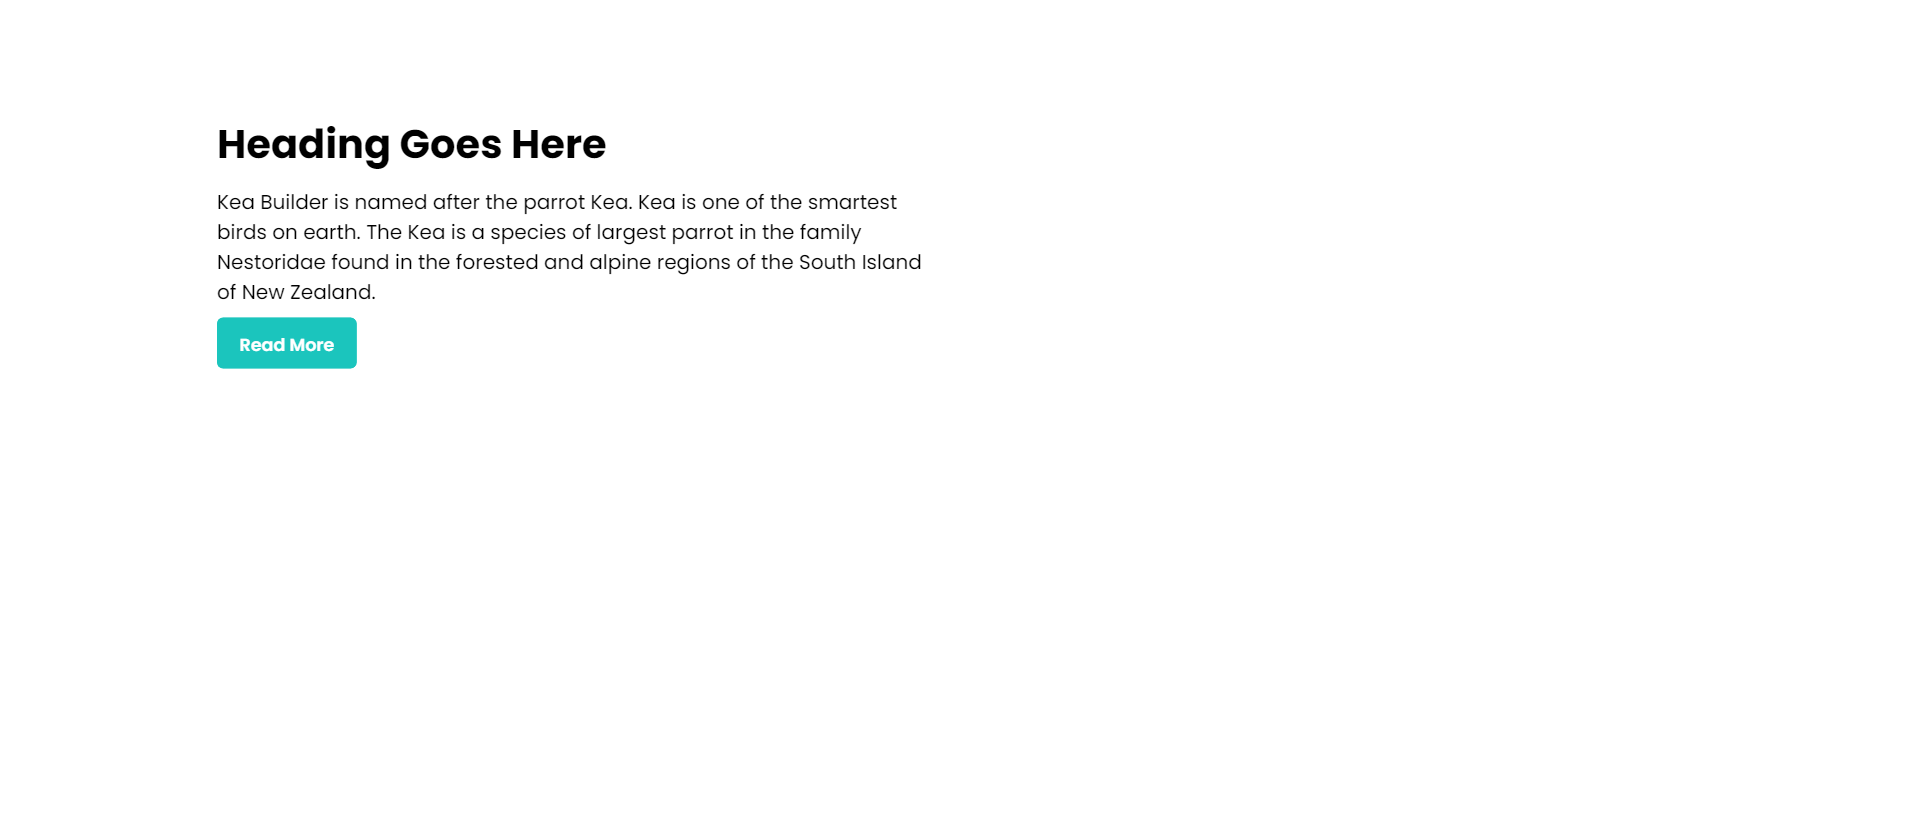
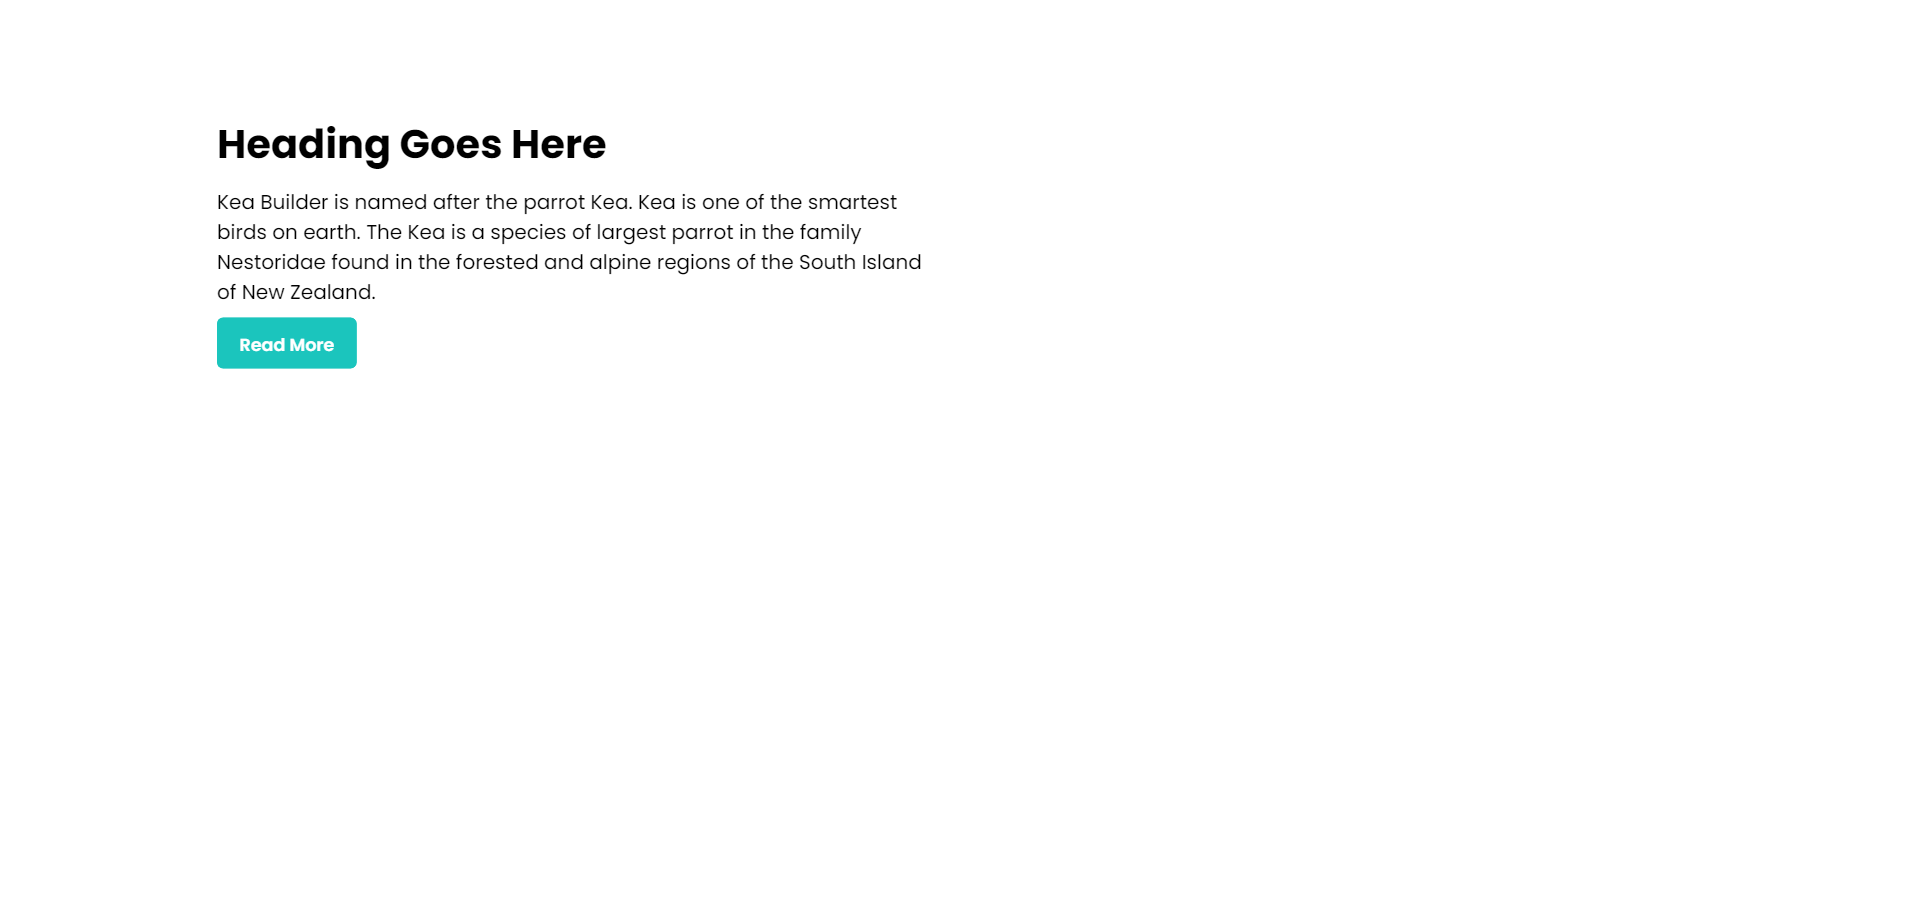
up

Changed region(s): [[0.0938, 0.123, 0.4688, 0.4613]]

diff --git a/src/assets/sites/pages/thumbnail/style.css b/src/assets/sites/pages/thumbnail/style.css
@@ -1,0 +1,1 @@
+#kb-main{margin:0px auto 0px auto;padding:0px 0px;border-width:0px;border-radius:0px;border-color:rgba(0,0,0,1);border-style:solid;background-color:rgba(0,0,0,0);width:100%;height:100%;z-index:auto;}#kb-section-1178113772{margin:0px auto 0px auto;padding:60px 0px 60px 0px;border-width:0px;border-radius:0px;border-color:rgba(0,0,0,1);border-style:solid;background-color:rgba(0,0,0,0);width:100%;height:auto;z-index:auto;}#kb-row-3840436701{margin:0px auto 0px auto;padding:30px 0px 30px 0px;border-width:0px;border-radius:0px;border-color:rgba(0,0,0,1);border-style:solid;background-color:rgba(0,0,0,0);width:80%;height:auto;z-index:auto;}#kb-row-3840436701 .kb-column-wrap{gap:0rem;}#kb-column-9862608998{margin:0px auto 0px auto;padding:0px 20px 0px 20px;border-width:0px;border-radius:0px;border-color:rgba(0,0,0,1);border-style:solid;background-color:rgba(0,0,0,0);width:100%;height:auto;z-index:auto;}#kb-element-2736485562 .kb-element-content div>div{font-size:32px;font-weight:700;font-style:normal;font-family:poppins;color:rgba(0,0,0,1);text-align:left;text-transform:none;text-decoration-line:none;text-decoration-style:solid;text-decoration-color:rgba(0,0,0,1);line-height:normal;letter-spacing:normal;margin:0px auto 10px 0px;padding:0px 0px 0px 0px;border-width:0px;border-radius:0px;border-color:rgba(0,0,0,1);border-style:solid;background-color:rgba(0,0,0,0);width:auto;height:auto;z-index:auto;}#kb-element-3595315778 .kb-element-content div>div{font-size:16px;font-weight:400;font-style:normal;font-family:poppins;color:rgba(0,0,0,1);text-align:left;text-transform:none;text-decoration-line:none;text-decoration-style:solid;text-decoration-color:rgba(0,0,0,1);line-height:normal;letter-spacing:normal;margin:0px auto 10px 0px;padding:0px 0px 0px 0px;border-width:0px;border-radius:0px;border-color:rgba(0,0,0,1);border-style:solid;background-color:rgba(0,0,0,0);width:auto;height:auto;z-index:auto;}#kb-element-3980715870 .kb-element-content a{font-size:14px;font-weight:600;font-style:normal;font-family:poppins;color:rgba(255, 255, 255, 1);text-align:center;text-transform:none;text-decoration-line:none;text-decoration-style:solid;text-decoration-color:rgba(255, 255, 255, 1);line-height:normal;letter-spacing:normal;margin:0px auto 10px 0px;padding:8px 16px 8px 16px;border-width:2px;border-radius:5px;border-color:#1BC5BD;border-style:solid;background-color:#1BC5BD;width:auto;height:auto;z-index:auto;}#kb-column-3264864318{margin:0px auto 0px auto;padding:0px 20px 0px 20px;border-width:0px;border-radius:0px;border-color:rgba(0,0,0,1);border-style:solid;background-color:rgba(0,0,0,0);width:100%;height:auto;z-index:auto;}@media only screen and (max-width:1024px) and (min-width:769px){}@media only screen and (max-width:768px) and (min-width:426px){#kb-section-1178113772{padding:30px 0px;}}@media only screen and (max-width:426px){#kb-section-1178113772{padding:30px 0px;}}

diff --git a/src/assets/sites/pages/my-first-optin-agai63942c71f/index.html b/src/assets/sites/pages/my-first-optin-agai63942c71f/index.html
@@ -1,1 +1,1 @@
-<html></html>
+<html><head><link rel="icon" type="image/x-icon" href="http://localhost:4200/assets/uploads/images/"><meta charset="UTF-8"><meta name="description" content=""><meta name="keywords" content=""><meta name="author" content=""><meta name="viewport" content="width=device-width, initial-scale=1.0"><title>hjhjh</title><link rel="stylesheet" href="http://localhost:4200/assets/style/builder.css"><link rel="stylesheet" href="http://localhost:4200/assets/sites/pages/my-first-optin-agai63942c71f/style.css"><script id="tracking-js" kb-include-path="http://localhost:4200/assets/sites/pages/tracking.html" src="http://localhost:4200/assets/script/tracking.js"></script></head><body><header _ngcontent-nok-c309="" kb-include-html="false"></header><div _ngcontent-nok-c309="" id="kb-main" ng-reflect-ng-style="[object Object]"><div _ngcontent-nok-c309="" cdkdroplist="" class="cdk-drop-list kb-drag-container" ng-reflect-connected-to="[object Object]" ng-reflect-data="[object Object]" id="cdk-drop-list-0"><div _ngcontent-nok-c309="" cdkdrag="" class="cdk-drag kb-section kb-block-container" title="" ng-reflect-ng-class="[object Object]" ng-reflect-ng-style="[object Object]" id="kb-section-3261429186"><span _ngcontent-nok-c309="" mattooltip="Add New Row" mattooltipposition="right" class="mat-tooltip-trigger kb-ispan-add add-row" ng-reflect-message="Add New Row" ng-reflect-position="right" aria-describedby="cdk-describedby-message-13" cdk-describedby-host="0"><i _ngcontent-nok-c309="" class="fa fa-plus"></i></span><div _ngcontent-nok-c309="" cdkdroplist="" class="cdk-drop-list kb-drag-container" ng-reflect-id="rowgroup-0" ng-reflect-data="" ng-reflect-connected-to="[object Object]" id="rowgroup-0"></div></div></div></div><footer _ngcontent-nok-c309="" kb-include-html="false"></footer></body></html>

diff --git a/src/assets/sites/pages/my-first-optin-agai63942c71f/style.css b/src/assets/sites/pages/my-first-optin-agai63942c71f/style.css
@@ -1,0 +1,1 @@
+#kb-main{margin:0px auto 0px auto;padding:0px 0px;border-width:0px;border-radius:0px;border-color:rgba(0,0,0,1);border-style:solid;background-color:rgba(0,0,0,0);width:100%;height:100%;z-index:auto;}#kb-section-3261429186{margin:0px auto 0px auto;padding:60px 0px 60px 0px;border-width:0px;border-radius:0px;border-color:rgba(0,0,0,1);border-style:solid;background-color:rgba(0,0,0,0);width:100%;height:auto;z-index:auto;}@media only screen and (max-width:1024px) and (min-width:769px){}@media only screen and (max-width:768px) and (min-width:426px){#kb-section-3261429186{padding:30px 0px;}}@media only screen and (max-width:426px){#kb-section-3261429186{padding:30px 0px;}}

diff --git a/src/app/_services/_builder/general.service.ts b/src/app/_services/_builder/general.service.ts
@@ -368,7 +368,6 @@ export class GeneralService {
           })
       }
       else if(this.layout == 'funnel'){
-        console.log(this.main);
         var funnelstepdata = {
             id: this.webpage.id,
             funnelid: this.webpage.funnelid,
@@ -383,6 +382,7 @@ export class GeneralService {
             thumbnail: '',
             tracking_code: ''
         }
+        console.log(funnelstepdata);
         this.funnelService.updatefunnelpage(funnelstepdata).subscribe(
           (e:any)=>{
             resolve(e);
